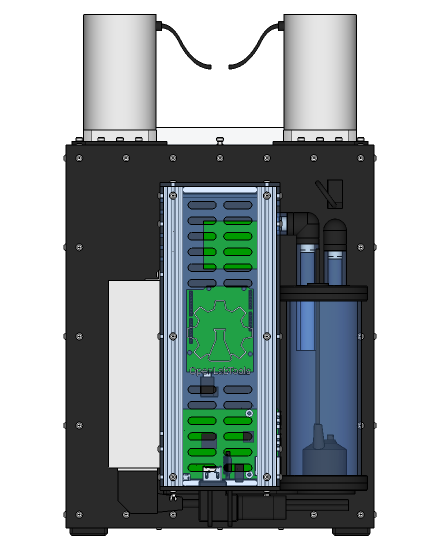
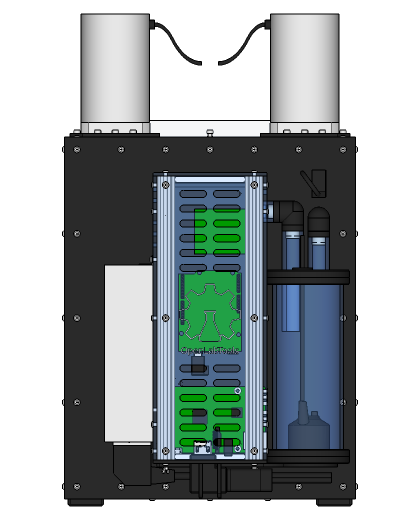
Small image size reduction

diff --git a/cad/panels/openlabtools_exporter.rb b/cad/panels/openlabtools_exporter.rb
@@ -35,7 +35,7 @@ def export_screenshots_and_save()
     $model.active_view.write_image({:filename => image_name + ".png",
       :width => 1280, :height => 720, :antialias => true, :compression => 0.9, :transparent => true})
     $model.active_view.write_image({:filename => image_name + "_small.png",
-      :width => 440, :height => 550, :antialias => true, :compression => 0.9, :transparent => true})
+      :width => 420, :height => 520, :antialias => true, :compression => 0.9, :transparent => true})
     i += 1
   end
   pages.selected_page = pages[0] # Set to front view
